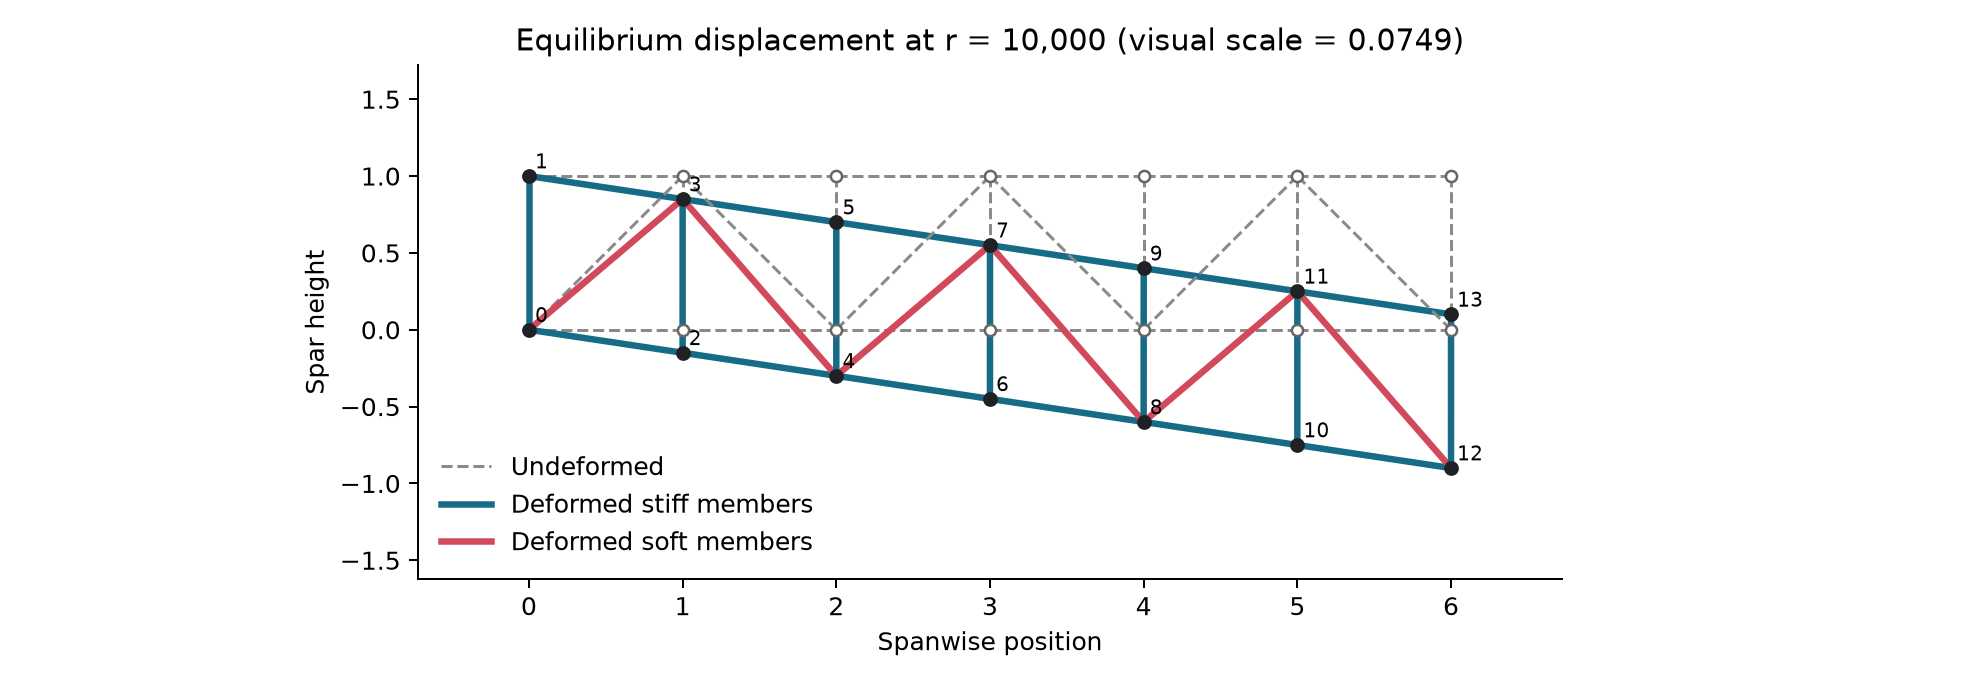
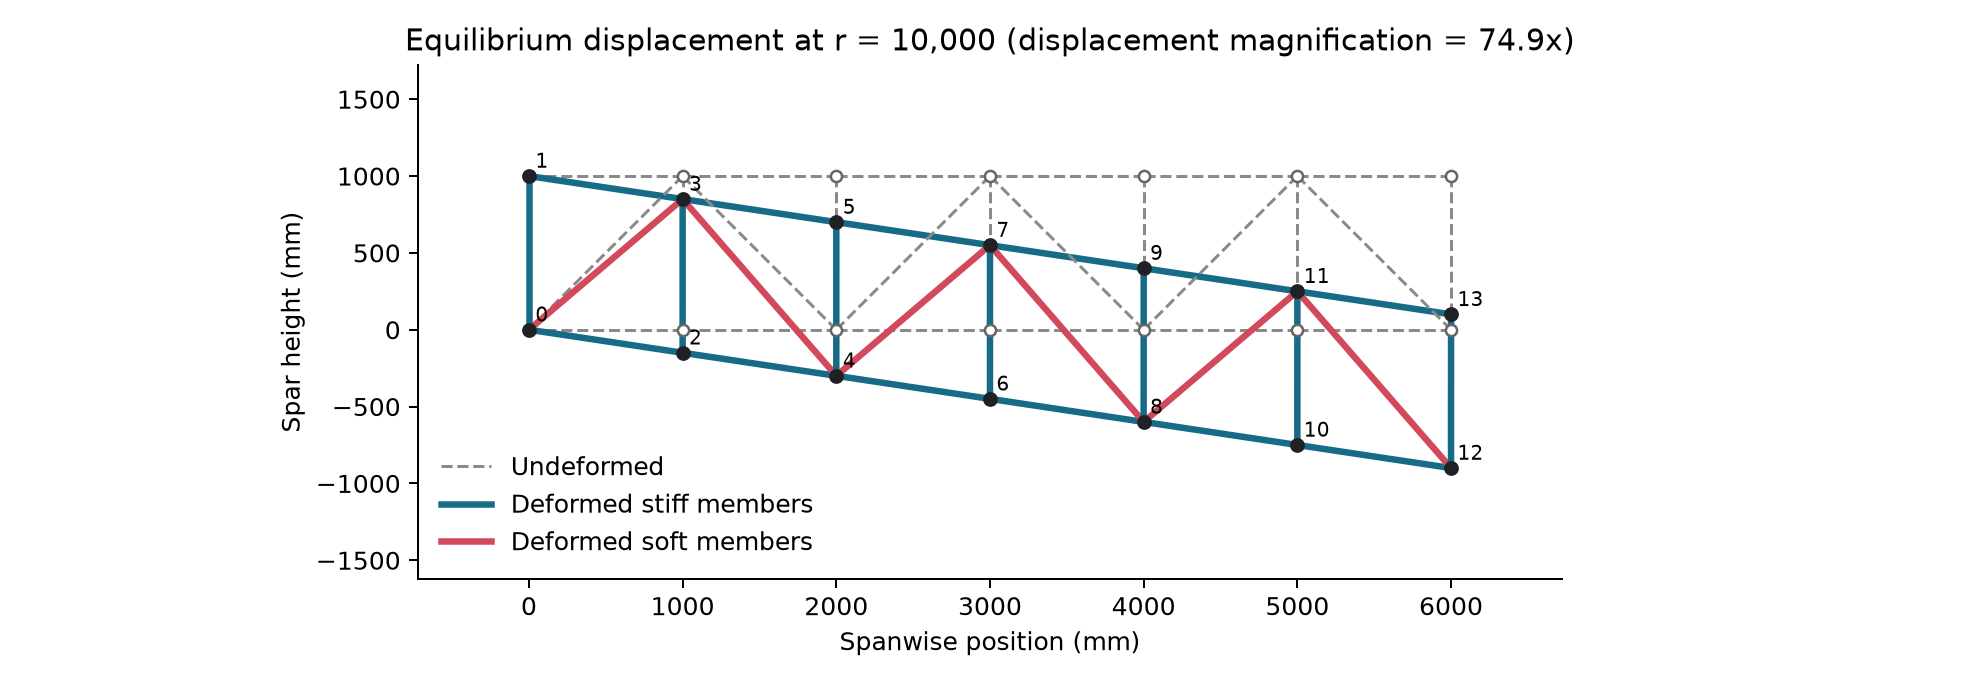
Plot truss displacement on ANSYS scale

diff --git a/Project2_CodeandMisc/project2_truss.py b/Project2_CodeandMisc/project2_truss.py
@@ -585,31 +585,33 @@ def plot_deformed_structure(
     stiffness_ratio: float,
     path: Path,
 ) -> float:
-    """Plot undeformed and visually scaled deformed geometry and return the scale."""
+    """Plot ANSYS-scale geometry with magnified displacement and return the scale."""
 
     # Convert the flat u vector into one [u_x,u_y] row for each node.
     nodal_displacement = full_displacement.reshape((-1, 2))
+    # Use the same millimeter coordinates as the exported ANSYS model.
+    original_coordinates = ANSYS_COORDINATE_SCALE_MM * model.coordinates
     # Use the largest node displacement to choose a visible plotting scale.
     displacement_magnitudes = np.linalg.norm(nodal_displacement, axis=1)
     maximum_displacement = float(np.max(displacement_magnitudes))
     # Measure the geometry so the deformation occupies about 15% of its size.
-    x_range = float(np.ptp(model.coordinates[:, 0]))
-    y_range = float(np.ptp(model.coordinates[:, 1]))
+    x_range = float(np.ptp(original_coordinates[:, 0]))
+    y_range = float(np.ptp(original_coordinates[:, 1]))
     geometry_size = max(x_range, y_range, 1.0)
     deformation_scale = (
         0.15 * geometry_size / maximum_displacement
         if maximum_displacement > 0.0
         else 1.0
     )
-    # The plot scale adjusts displacement visibility but does not change saved u.
-    deformed_coordinates = model.coordinates + deformation_scale * nodal_displacement
+    # ANSYS-style magnification affects only the picture, never the saved solution.
+    deformed_coordinates = original_coordinates + deformation_scale * nodal_displacement
 
     # Draw the original shape as a dashed reference and the deformed shape by group.
     fig, ax = plt.subplots(figsize=(11, 3.8))
     colors = {"stiff": "#176B87", "soft": "#D1495B"}
     labels_drawn: set[str] = set()
     for node_i, node_j, group in model.members:
-        original_points = model.coordinates[[node_i, node_j]]
+        original_points = original_coordinates[[node_i, node_j]]
         deformed_points = deformed_coordinates[[node_i, node_j]]
         # Only one original member creates the undeformed legend entry.
         original_label = "Undeformed" if "undeformed" not in labels_drawn else None
@@ -636,8 +638,8 @@ def plot_deformed_structure(
         labels_drawn.add(group)
     # Mark undeformed and deformed node locations for direct visual comparison.
     ax.scatter(
-        model.coordinates[:, 0],
-        model.coordinates[:, 1],
+        original_coordinates[:, 0],
+        original_coordinates[:, 1],
         s=20,
         facecolors="white",
         edgecolors="#666666",
@@ -651,19 +653,26 @@ def plot_deformed_structure(
         zorder=4,
     )
     # Label the deformed nodes with the same zero-based numbers as truss_config.py.
+    label_x_offset = 0.007 * geometry_size
+    label_y_offset = 0.009 * geometry_size
     for node, (x_coordinate, y_coordinate) in enumerate(deformed_coordinates):
-        ax.text(x_coordinate + 0.04, y_coordinate + 0.05, str(node), fontsize=8)
+        ax.text(
+            x_coordinate + label_x_offset,
+            y_coordinate + label_y_offset,
+            str(node),
+            fontsize=8,
+        )
     # Include both shapes when calculating plot limits.
-    all_coordinates = np.vstack((model.coordinates, deformed_coordinates))
+    all_coordinates = np.vstack((original_coordinates, deformed_coordinates))
     margin = 0.12 * geometry_size
     ax.set_xlim(all_coordinates[:, 0].min() - margin, all_coordinates[:, 0].max() + margin)
     ax.set_ylim(all_coordinates[:, 1].min() - margin, all_coordinates[:, 1].max() + margin)
     ax.set_aspect("equal")
-    ax.set_xlabel("Spanwise position")
-    ax.set_ylabel("Spar height")
+    ax.set_xlabel("Spanwise position (mm)")
+    ax.set_ylabel("Spar height (mm)")
     ax.set_title(
         f"Equilibrium displacement at r = {stiffness_ratio:,.0f} "
-        f"(visual scale = {deformation_scale:.3g})"
+        f"(displacement magnification = {deformation_scale:.3g}x)"
     )
     ax.legend(loc="best", frameon=False)
     ax.spines[["top", "right"]].set_visible(False)

diff --git a/Project2_CodeandMisc/Project_2_Report.md b/Project2_CodeandMisc/Project_2_Report.md
@@ -251,7 +251,7 @@ The full vector includes zero entries at fixed displacement coordinates. Exact v
 
 ![Undeformed and deformed truss](figures/deformed_truss_r10000.png)
 
-The figure overlays the undeformed truss and the equilibrium shape. The displayed deformation is scaled automatically so that both shapes remain visible. This visual scale does not change the saved numerical displacement values.
+The figure overlays the undeformed truss and the equilibrium shape using the same millimeter coordinates as the ANSYS model. As in an ANSYS deformed-shape display, the displacement is magnified automatically so that both shapes remain visible. The title reports this displacement magnification factor. It affects only the picture and does not change the saved numerical displacement values.
 
 The analysis also writes `results/ansys_model_r10000.inp`. This ANSYS MAPDL input uses LINK180 axial truss elements and areas selected so that each ANSYS member has the same $EA/L$ as the corresponding Python member. The complete independent verification procedure is in [`ANSYS_Verification.md`](ANSYS_Verification.md).
 

diff --git a/Project2_CodeandMisc/ANSYS_Verification.md b/Project2_CodeandMisc/ANSYS_Verification.md
@@ -121,7 +121,7 @@ Their horizontal sum is zero, and their vertical sum balances the $-1$ N applied
 
 ## 6. Compare the deformed shape
 
-In MAPDL postprocessing, display the deformed and undeformed shapes together. The overall bending direction and relative node movement should match `figures/deformed_truss_r10000.png`.
+In MAPDL postprocessing, display the deformed and undeformed shapes together. The overall bending direction and relative node movement should match `figures/deformed_truss_r10000.png`. The Python figure uses the same millimeter geometry as ANSYS and reports its displacement magnification in the title. ANSYS can choose a different display magnification, so compare the shape or set a matching scale before comparing the plotted distance between the two shapes.
 
 The Python figure uses the visual scale stored in `results/u_r10000.json`. This factor adjusts displacement only for plotting. Compare numerical displacement values rather than measuring distances from the image.
 
